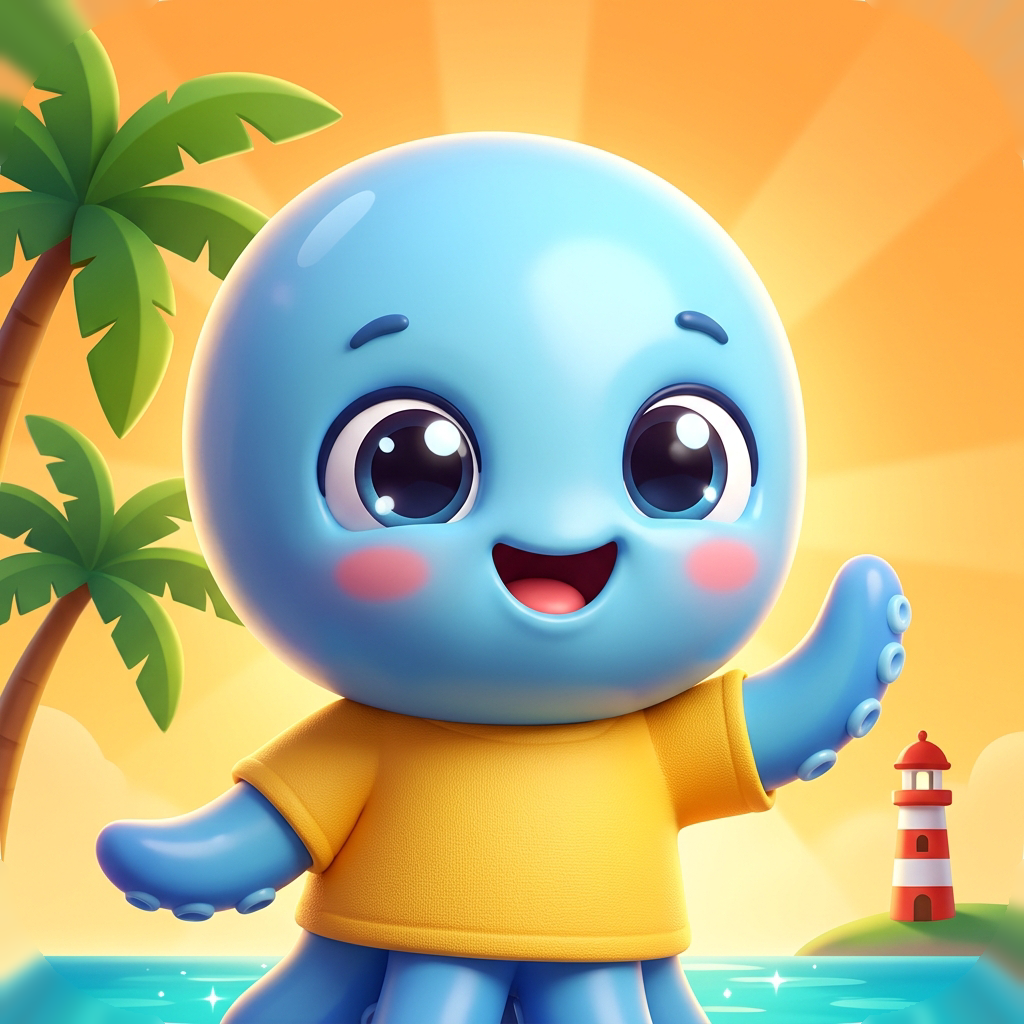
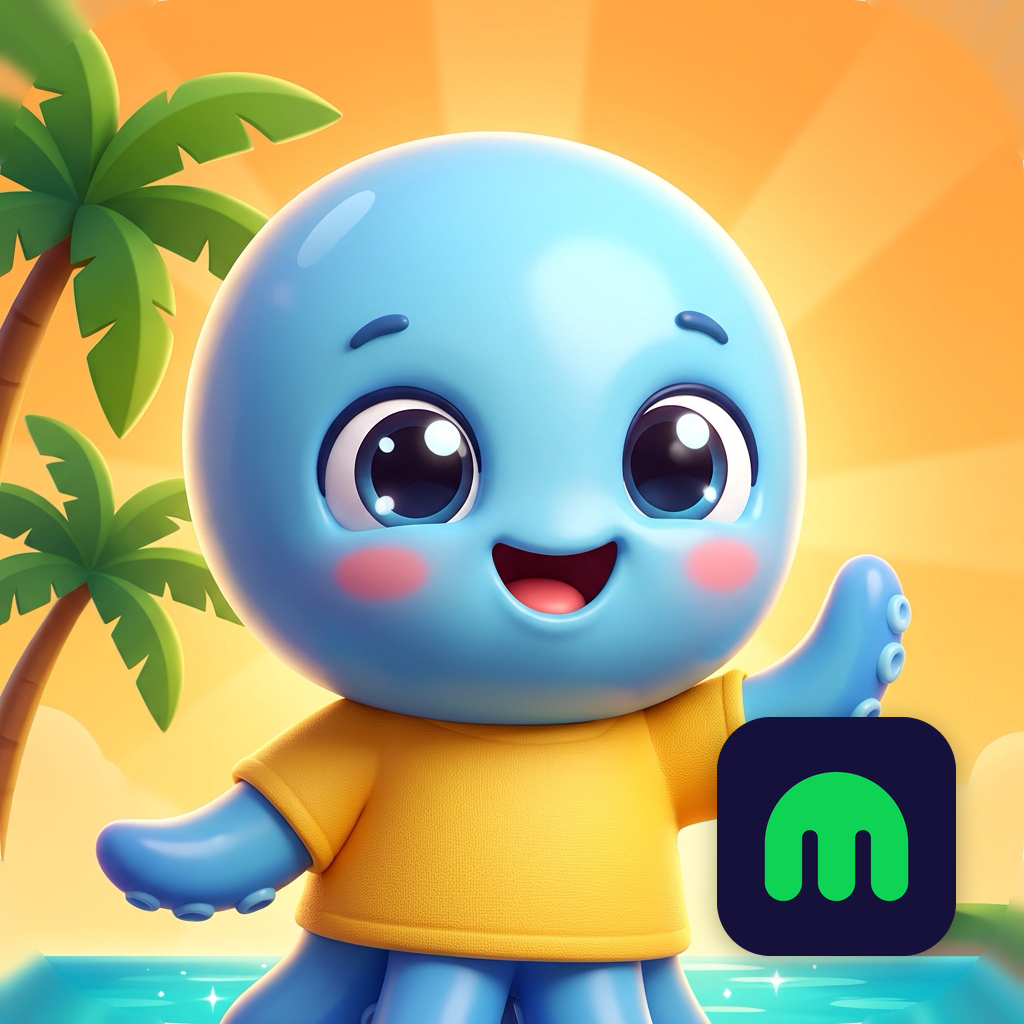
Moyo Oyun simgesi R2: oyun görseli + sağ altta Moyo Ebeveyn simgesi (çizgisiz, %23, köşeden %6,7); üretici art/scripts/app_icon_moyo.py
Claude-Session: https://claude.ai/code/session_019nMNCMKpvXDikbxE5S3HtS

Changed region(s): [[0.6875, 0.6875, 0.9375, 0.9688]]

diff --git a/art/scripts/app_icon_moyo.py b/art/scripts/app_icon_moyo.py
@@ -1,0 +1,53 @@
+"""Moyo Oyun uygulama simgesi (kullanıcı seçimi R2, 20 Kasım 2026): oyun görseli + sağ altta küçük Moyo Ebeveyn simgesi.
+
+Rozet: Moyo Ebeveyn'in güncel simgesi (18 Kasım seti: lacivert #16113A zemin, yeşil #0FD354 işaret 1E), beyaz çizgi YOK,
+yumuşak gölge; boyu 14/60 birim (%23,3), köşeden 4/60 birim (%6,7). Ölçüler 60 px ana ekran ızgarasına oturur (1 birim =
+1024/60 px), rozetin köşe yarıçapı iOS köşe oranıyla aynı (%22,37); telefonun yuvarlak köşesine köşegende ~17 px pay kalır.
+Simgede yazı yok (Apple önermez). Çıktı 1024 × 1024, saydamlıksız (App Store şartı).
+
+Girdiler art/icons/moyo_oyun/: src_oyun.png (özgün oyun görseli, 24 Ekim simgesi), moyo_ebeveyn_1024.png (parent-app
+assets/icon.png, 18 Kasım seti). Moyo Ebeveyn simgesi değişirse yeni dosyayı oraya kopyala ve betiği yeniden çalıştır.
+Seçenekler (R1–R6, M1–M3) ve dinleme/önizleme sayfası yalnız sohbette gösterildi; bu betik seçilen R2'yi üretir.
+
+    python3 -I art/scripts/app_icon_moyo.py            # → Assets/_Pofi/Art/AppIcon.png
+    python3 -I art/scripts/app_icon_moyo.py <çıktı.png>
+"""
+import os, sys
+from PIL import Image, ImageDraw, ImageFilter
+
+HERE = os.path.dirname(os.path.abspath(__file__))
+ROOT = os.path.abspath(os.path.join(HERE, "..", ".."))
+SRC = os.path.join(ROOT, "art", "icons", "moyo_oyun")
+OUT = sys.argv[1] if len(sys.argv) > 1 else os.path.join(ROOT, "Assets", "_Pofi", "Art", "AppIcon.png")
+
+S = 1024
+U = S / 60          # 60 px ana ekran ızgarası
+BADGE_UNITS = 14    # rozet kenarı
+INSET_UNITS = 4     # köşeden içeri
+RAD = 0.2237        # iOS köşe oranı
+SHADOW = (0, 5, 12, 0.32)   # (x, y kayma px, bulanıklık px, koyuluk)
+SS = 4
+
+
+def rounded(size, rad):
+    m = Image.new("L", (size * SS, size * SS), 0)
+    ImageDraw.Draw(m).rounded_rectangle([0, 0, size * SS - 1, size * SS - 1], radius=round(size * SS * rad), fill=255)
+    return m.resize((size, size), Image.LANCZOS)
+
+
+def main():
+    base = Image.open(os.path.join(SRC, "src_oyun.png")).convert("RGB").resize((S, S), Image.LANCZOS)
+    b = round(BADGE_UNITS * U); x1 = round(S - INSET_UNITS * U); x0 = x1 - b
+    mask = rounded(b, RAD)
+    dx, dy, blur, alpha = SHADOW
+    sh = Image.new("L", (S, S), 0); sh.paste(mask, (x0 + dx, x0 + dy))
+    sh = sh.filter(ImageFilter.GaussianBlur(blur)).point(lambda v: int(v * alpha))
+    base = Image.composite(Image.new("RGB", (S, S), (0, 0, 0)), base, sh)
+    moyo = Image.open(os.path.join(SRC, "moyo_ebeveyn_1024.png")).convert("RGB").resize((b, b), Image.LANCZOS)
+    base.paste(moyo, (x0, x0), mask)
+    base.save(OUT, optimize=True)
+    print("yazıldı:", OUT, base.size, base.mode)
+
+
+if __name__ == "__main__":
+    main()

diff --git a/CLAUDE.md b/CLAUDE.md
@@ -270,3 +270,4 @@
 
 - **Ad: Moyo Oyun** (20 Kasım 2026, kullanıcı seçimi "Karma"; 10 Kasım'daki "Moyo Pofi Adası"nın yerine geçer, ortak `durumlar.md` 5B): telefondaki ad (`IosPostBuild` `CFBundleDisplayName`), giriş başlığı `auth.title`, yükleme ekranı (`UI/LoadingCover`), web önizleme başlığı ve `auth.qr_wrong`, `info.parents`, `info.child` metinlerinde **Moyo Oyun**; App Store Connect'teki uygulama adı **Moyo Oyun: Pofi Adası** (21 karakter; aramada "Pofi Adası" da çıkar). Adanın oyun içindeki adı Pofi Adası kalır. Kamera izni metni de "Moyo'da gösterilen QR kodu…" oldu (`IosPostBuild` + `ProjectSetup`; önceden "ParentApp'te"). Sesi değişen tek satır yine `info.child` (yeni anahtar `a59765c7ae4619ff`): Marketing'e ek talep `art/voice/talep/ek_moyooyun_20kasim.json`; gelene kadar bu kart sessiz (`--missing` 1).
   **Eş metinler 20 Kasım yasal tabanına göre** (ortak PR 171'e ana dal birleştirildi): ebeveyn bilgi notu `info.parents` ve kamera izni metninde ebeveyn uygulaması **Moyo Ebeveyn** (telefonda görünen adı "Moyo"; KVKK yolu "Moyo Ebeveyn › Aile › Hesap › Yasal ve gizlilik › KVKK başvurusu"); sesli değil. Oyunda açıklama cümlesinde **"sorumluluk"** kalır (kullanıcı kararı 20 Kasım; ana daldaki "maceraları" oyuna alınmadı, `hukuk/11` B ve `hukuk/50` §8 oyuna uyduruldu).
+- **Moyo Oyun uygulama simgesi R2** (20 Kasım 2026, kullanıcı seçimi; koordinatörün ilettiği istek "Moyo Ebeveyn'in M tasarımı sağ alt köşede küçük"): oyun görseli aynen + sağ altta Moyo Ebeveyn'in güncel simgesi (18 Kasım seti, lacivert zemin + yeşil işaret 1E), **beyaz çizgi yok**, yumuşak gölge; boy %23,3 (14/60 birim), köşeden %6,7 (4/60), köşe oranı iOS'unki (%22,37), yazı yok. Üretici `python3 -I art/scripts/app_icon_moyo.py` → `Assets/_Pofi/Art/AppIcon.png`; girdiler `art/icons/moyo_oyun/` (`src_oyun.png` = 24 Ekim'den beri kullanılan oyun görseli, `moyo_ebeveyn_1024.png` = parent-app `assets/icon.png` d517f00). Rozet deniz fenerini örter (kullanıcı R2'yi böyle seçti). Telefonda TestFlight 40 ile görünür. Eski "Uygulama simgesi ASKIDA" notu bununla kapandı.
